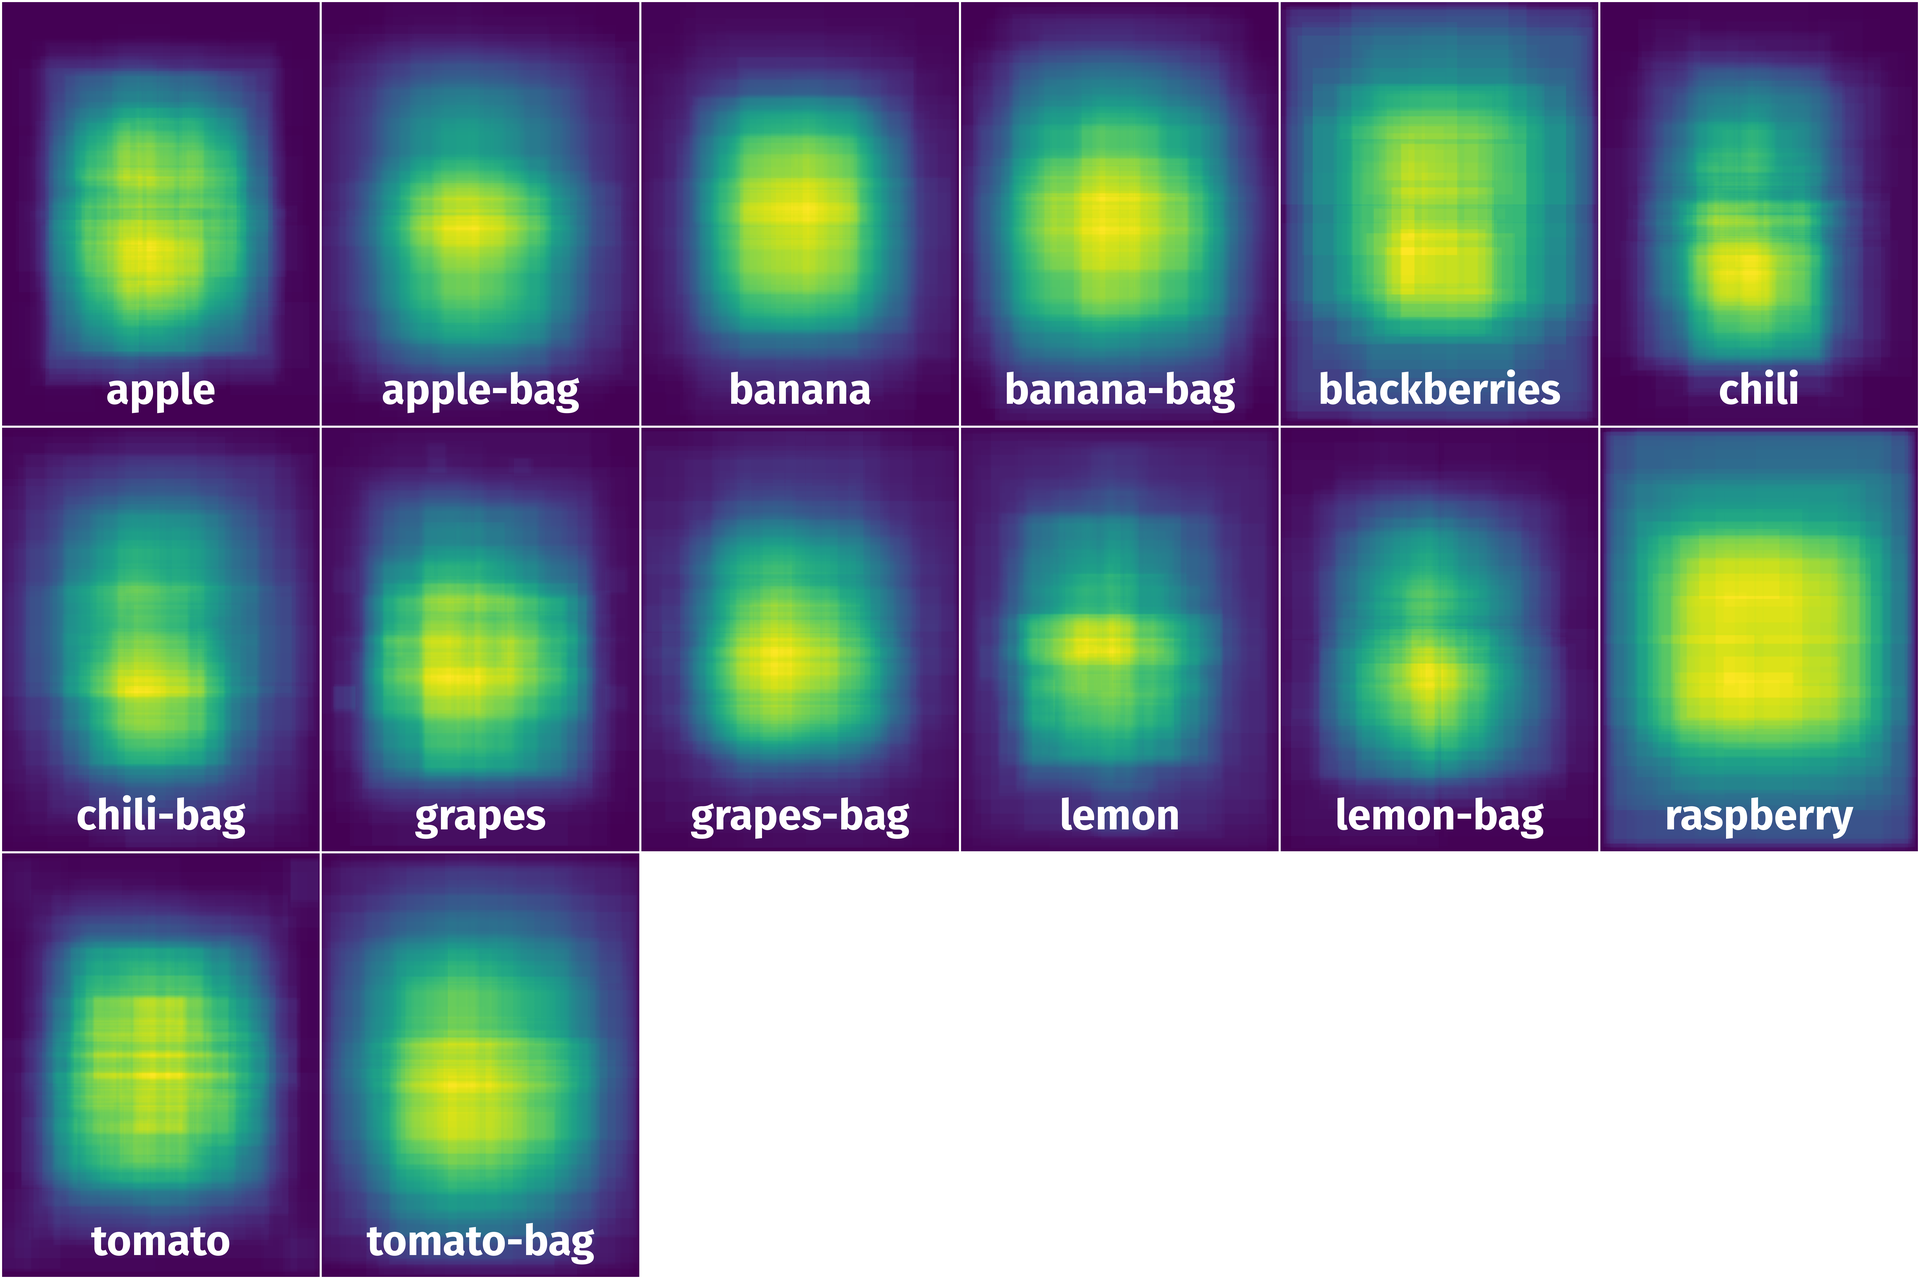
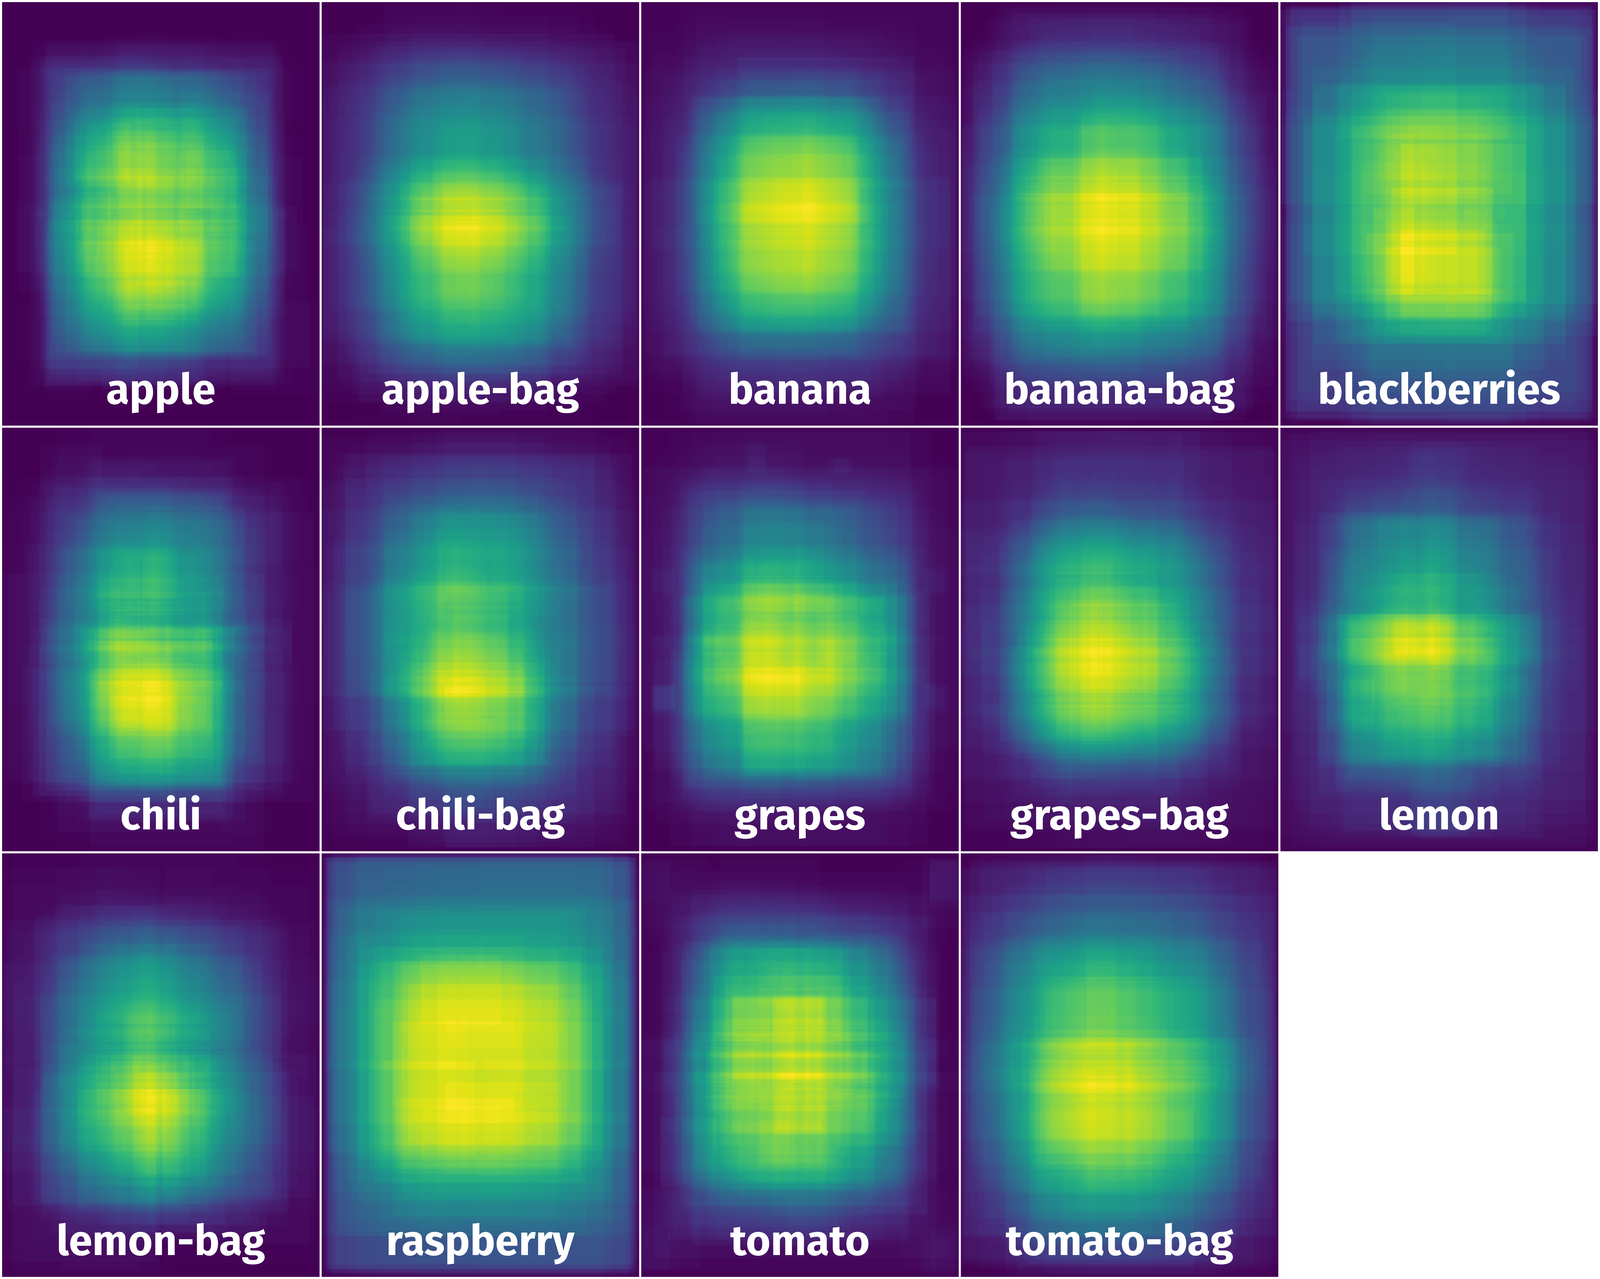
upd heatmaps, replace poster

diff --git a/src/options.py b/src/options.py
@@ -1,6 +1,8 @@
-from dataset_tools.templates import AnnotationType
-from src.settings import ANNOTATION_TYPES
 from typing import List
+
+from dataset_tools.templates import AnnotationType
+
+from src.settings import ANNOTATION_TYPES
 
 ###############################################################################
 # ! Set up values if you want to change default values of visualizations
@@ -11,7 +13,7 @@ SAMPLE_RATE = 1  # make less if dataset is too big
 # * Preview class to visualize in SUMMARY.md overview section
 # * Literal["ClassesPreview", "HorizontalGrid", "SideAnnotationsGrid", "Poster", "HorizontalGridAnimated", "VerticalGridAnimated"]
 # * If None, then preview_class will be set automatically to "ClassesPreview"
-PREVIEW_CLASS = "Poster"
+PREVIEW_CLASS = "ClassesPreview"
 
 IS_DETECTION_TASK: bool = None  # ? Set True if you want to visualize only bbox annotations
 if IS_DETECTION_TASK is None:
@@ -69,8 +71,8 @@ CLASSES_PREVIEW_TAGS: List[str] = None
 ### * Set up visualization params for ClassesHeatmaps class ###
 # args for "to_image" method
 DRAW_STYLE: str = None  # "inside_white" or "outside_black"
-HEATMAP_ROWS: int = None
-HEATMAP_COLS: int = None
+HEATMAP_ROWS: int = 3
+HEATMAP_COLS: int = 5
 HEATMAP_GRID_SPACING: int = None
 HEATMAP_OUTER_GRID_SPACING: int = None
 HEATMAP_OUTPUT_WIDTH: int = (

diff --git a/SUMMARY.md b/SUMMARY.md
@@ -2,4 +2,6 @@
 
 The dataset consists of 4592 images with 5628 labeled objects belonging to 14 different classes including *lemon*, *chili-bag*, *banana*, and other: *tomato-bag*, *apple-bag*, *chili*, *banana-bag*, *grapes-bag*, *grapes*, *tomato*, *apple*, *lemon-bag*, *raspberry*, and *blackberries*. There are 2 splits in the dataset: *train* (3942 images) and *test* (650 images). The dataset was released in 2020 by the California State University San Marcos, USA.
 
-<img src="https://github.com/dataset-ninja/fruits-and-vegetable-detection/raw/main/visualizations/poster.png">
+Here are the visualized examples for the classes:
+
+[Dataset classes](https://github.com/dataset-ninja/fruits-and-vegetable-detection/raw/main/visualizations/classes_preview.webm)
